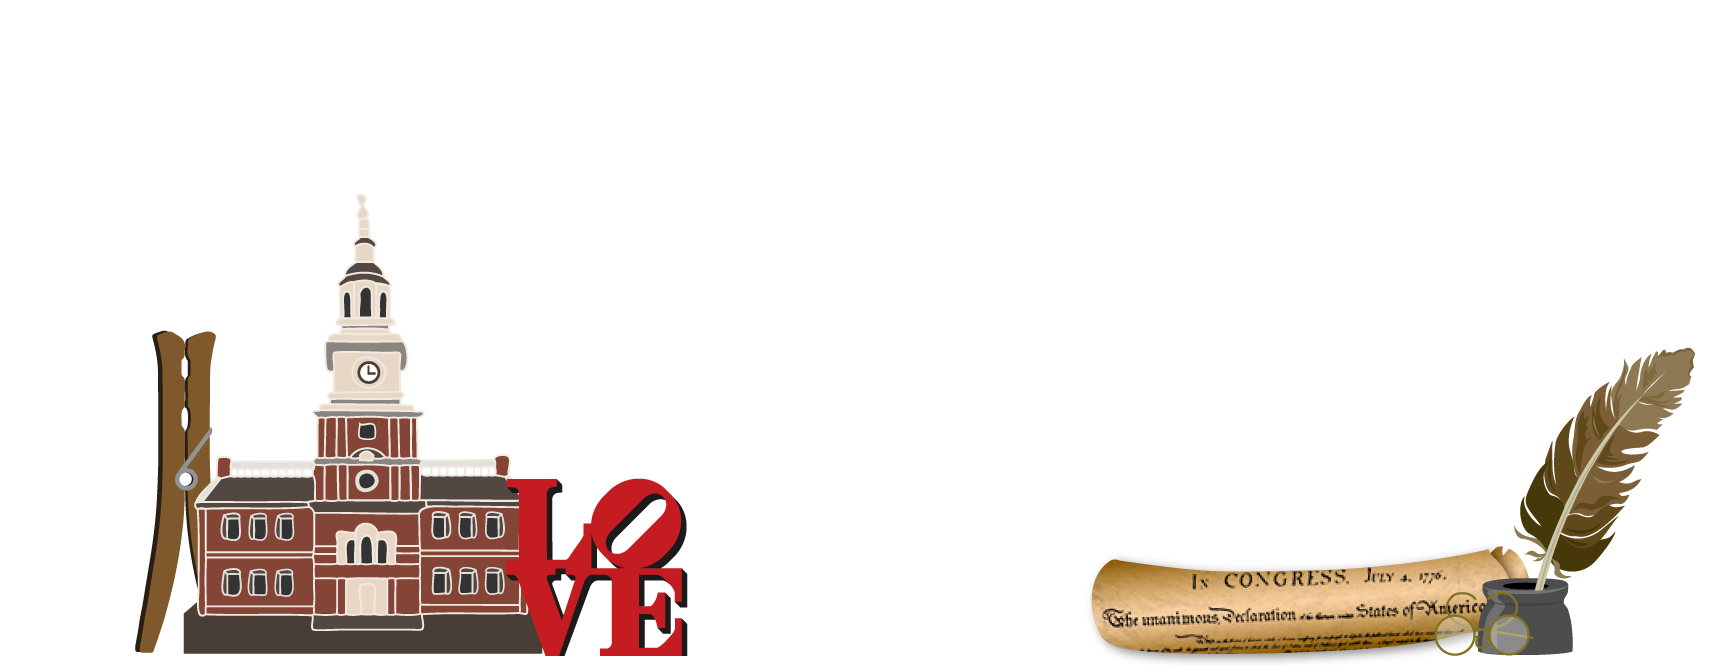
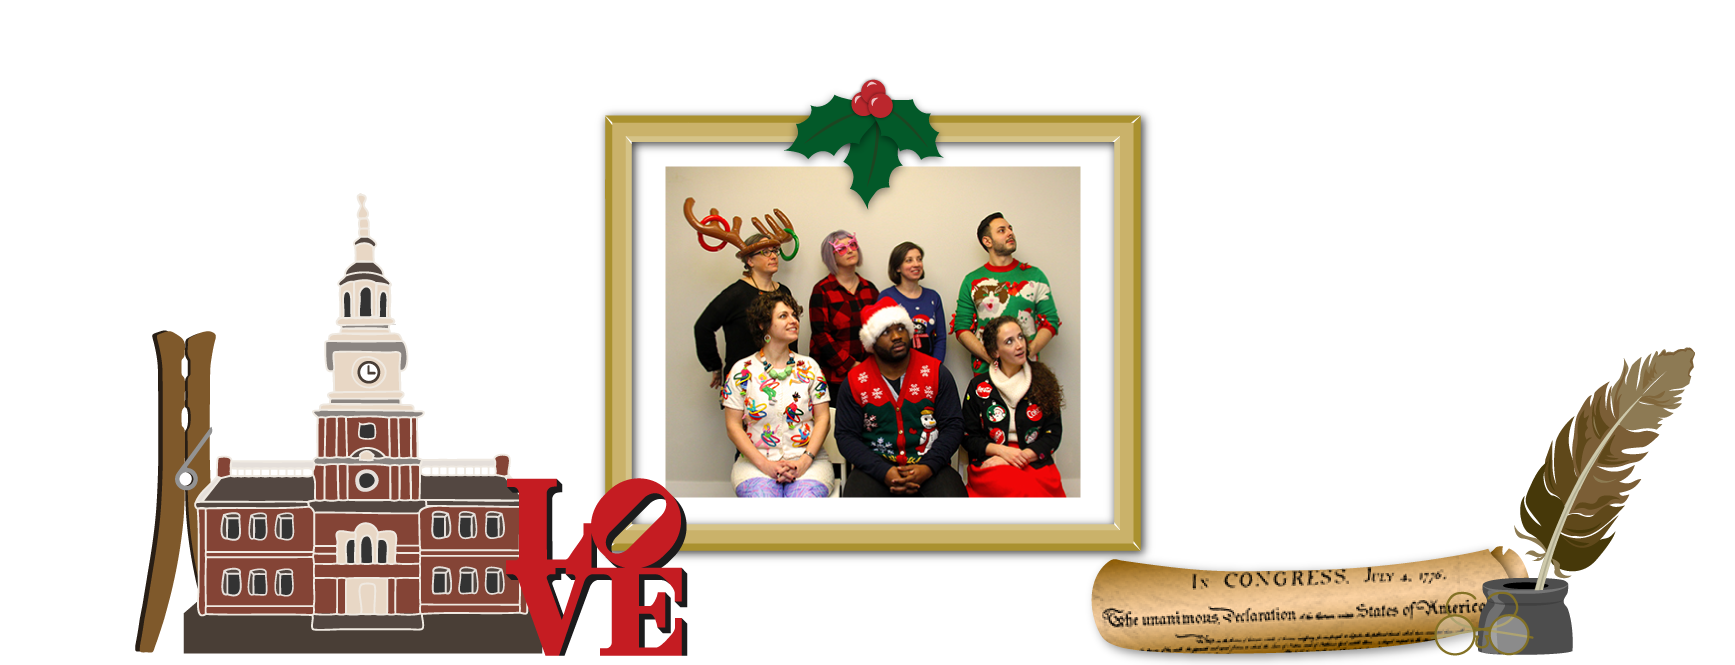
built scene switcher

diff --git a/index.html b/index.html
@@ -18,38 +18,32 @@
 			<div id="background">
 				<img src="assets/bkgr.png" id="scene_background" alt="background image">
 				<div id="chair">
-					<img src="assets/scene_1/sc01_obj-chair.png" id="scene_1_chair" alt="scene 1 chair">
-					<img src="assets/scene_2/sc02_obj-chair.png" id="scene_2_chair" alt="scene 2 chair" class="hidden">
+					<img src="assets/scene_1/sc01_obj-chair.png" class="chair active in" alt="scene 1 chair">
+					<img src="assets/scene_2/sc02_obj-chair.png" class="chair hidden fade" alt="scene 2 chair">
 				</div>
 				<div id="fireplace">
-					<img src="assets/scene_1/sc01_obj-fireplace.png" id="scene_1_fireplace" alt="scene 1 fireplace">
-					<img src="assets/scene_2/sc02_obj-fireplace.png" id="scene_2_fireplace" alt="scene 2 fireplace" class="hidden">
-				</div>
-				<div id="frame">
-					<img src="assets/scene_1/sc01_obj-frame.png" id="scene_1_frame" alt="scene 1 frame">
-					<img src="assets/scene_2/sc02_obj-frame.png" id="scene_2_frame" alt="scene 2 frame" class="hidden">
-
+					<img src="assets/scene_1/sc01_obj-fireplace.png" class="fireplace active in" alt="scene 1 fireplace">
+					<img src="assets/scene_2/sc02_obj-fireplace.png" class="fireplace hidden fade" alt="scene 2 fireplace" class="hidden">
 				</div>
 				<div id="mantel">
-					<img src="assets/scene_1/sc01_obj-mantel.png" id="scene_1_mantel" alt="scene 1 mantel">
-					<img src="assets/scene_2/sc02_obj-mantel.png" id="scene_2_mantel" alt="scene 2 mantel" class="hidden">
-
+					<img src="assets/scene_1/sc01_obj-mantel.png" class="mantel active in" alt="scene 1 mantel">
+					<img src="assets/scene_2/sc02_obj-mantel.png" class="mantel hidden fade" alt="scene 2 mantel">
 				</div>
 				<div id="mantelGarland">
-					<img src="assets/scene_1/sc01_obj-mantelGarland.png" id="scene_1_mantelGarland" alt="scene 1 mantelGarland">
-					<img src="assets/scene_2/sc02_obj-mantelGarland.png" id="scene_2_mantelGarland" alt="scene 2 mantelGarland" class="hidden">
+					<img src="assets/scene_1/sc01_obj-mantelGarland.png"  class="mantelGarland active in" alt="scene 1 mantelGarland">
+					<img src="assets/scene_2/sc02_obj-mantelGarland.png"  class="mantelGarland hidden fade" alt="scene 2 mantelGarland">
 				</div>
 				<div id="pet">
-					<img src="assets/scene_1/sc01_obj-pet.png" id="scene_1_pet" alt="scene 1 pet">
-					<img src="assets/scene_2/sc02_obj-pet.png" id="scene_2_pet" alt="scene 2 pet" class="hidden">
+					<img src="assets/scene_1/sc01_obj-pet.png" class="pet active in" alt="scene 1 pet">
+					<img src="assets/scene_2/sc02_obj-pet.png" class="pet hidden fade" alt="scene 2 pet">
 				</div>
 				<div id="table">
-					<img src="assets/scene_1/sc01_obj-table.png" id="scene_1_table" alt="scene 1 table">
-					<img src="assets/scene_2/sc02_obj-table.png" id="scene_2_table" alt="scene 2 table" class="hidden">
+					<img src="assets/scene_1/sc01_obj-table.png" class="table active in" alt="scene 1 table">
+					<img src="assets/scene_2/sc02_obj-table.png" class="table hidden fade" alt="scene 2 table">
 				</div>
 				<div id="tree">
-					<img src="assets/scene_1/sc01_obj-tree.png" id="scene_1_tree" alt="scene 1 tree">
-					<img src="assets/scene_2/sc02_obj-tree.png" id="scene_2_tree" alt="scene 2 tree" class="hidden">
+					<img src="assets/scene_1/sc01_obj-tree.png" class="tree active in" alt="scene 1 tree">
+					<img src="assets/scene_2/sc02_obj-tree.png" class="tree hidden fade" alt="scene 2 tree">
 				</div>
 			</div>
 		</div>

diff --git a/dist/css/main.css b/dist/css/main.css
@@ -8,6 +8,11 @@
 .in {
   opacity: 1; }
 
+button {
+  background: none;
+  border: none;
+  cursor: pointer; }
+
 * {
   font-family: "museo-sans", Helvetica, Arial, sans-serif; }
 
@@ -24,7 +29,8 @@ body {
   align-items: center;
   width: 100vw;
   height: 100vh;
-  background-color: rgba(0, 0, 0, 0.5); }
+  background-color: rgba(0, 0, 0, 0.5);
+  z-index: 4; }
   #attract .gift-tag-wrapper {
     display: block;
     width: 320px;
@@ -65,70 +71,65 @@ body {
 #scene {
   height: 100vh;
   width: 100vw;
-  overflow: hidden; }
+  overflow: hidden;
+  display: flex;
+  justify-content: center;
+  z-index: -1; }
 
 #background {
   position: relative;
-  width: 1200px;
-  margin: 0px auto; }
+  width: 1400px; }
   #background img {
-    width: 1200px;
+    width: 1400px;
     height: auto; }
 
+#chair, #fireplace, #mantel, #mantelGarland, #pet, #table, #tree {
+  position: absolute; }
+
+#chair, #fireplace, #mantel, #mantelGarland, #pet, #table {
+  z-index: 2; }
+
 #chair {
-  position: absolute;
-  left: 215px;
-  top: 228px; }
+  left: 253px;
+  top: 270px; }
   #chair img {
-    width: 211px; }
+    width: 240px; }
 
 #fireplace {
-  position: absolute;
-  left: 397px;
-  top: 310px; }
+  left: 479px;
+  top: 364px; }
   #fireplace img {
-    width: 315px; }
-
-#frame {
-  position: absolute;
-  left: 362px;
-  top: 35px; }
-  #frame img {
-    width: 461px; }
+    width: 345px; }
 
 #mantel {
-  position: absolute;
   top: 25px;
-  left: 328px; }
+  left: 367px; }
   #mantel img {
-    width: 550px; }
+    width: 654px; }
 
 #mantelGarland {
-  position: absolute;
-  top: 231px;
-  left: 349px; }
+  top: 269px;
+  left: 406px; }
   #mantelGarland img {
-    width: 500px; }
+    width: 589px; }
 
 #pet {
-  position: absolute;
-  top: 485px;
-  left: 299px; }
+  top: 566px;
+  left: 365px; }
   #pet img {
-    width: 575px; }
+    width: 655px; }
 
 #table {
-  position: absolute;
-  top: 247px;
-  left: 690px; }
+  top: 293px;
+  left: 800px; }
   #table img {
-    width: 233px; }
+    width: 266px; }
 
 #tree {
-  position: absolute;
-  top: 0px;
-  left: 0px; }
+  top: 43px;
+  left: 193px;
+  z-index: 1; }
   #tree img {
-    width: 500px; }
+    width: 280px; }
 
 /*# sourceMappingURL=main.css.map */

diff --git a/_sass/components/_scene.scss b/_sass/components/_scene.scss
@@ -2,87 +2,82 @@
 	height: 100vh;
 	width: 100vw;
 	overflow: hidden;
+	display: flex;
+	justify-content: center;
+	z-index: -1;
 }
 
 
 #background {
 	position: relative;
-	width: 1200px;
-	margin: 0px auto;
+	width: 1400px;
 	img {
-	width: 1200px;
+	width: 1400px;
 	height: auto;
 	}
 }
 
-#chair {
+#chair, #fireplace, #mantel, #mantelGarland, #pet, #table, #tree {
 	position: absolute;
-    left: 215px;
-    top: 228px;
+}
+
+#chair, #fireplace, #mantel, #mantelGarland, #pet, #table {
+	z-index: 2;
+}
+
+#chair {
+   	left: 253px;
+    top: 270px;
 	img {
-		width: 211px;
+		width: 240px;
 	}
 }
 
 #fireplace {
-	position: absolute;
-	left: 397px;
-    top: 310px;
+	left: 479px;
+    top: 364px;
     img {
-    	width: 315px;
-    }
-}
-
-#frame {
-	position: absolute;
-	left: 362px;
-    top: 35px;
-    img {
-    	width: 461px;
+    	width: 345px;
     }
 }
 
 #mantel {
-	position: absolute;
 	top: 25px;
-    left: 328px;
+    left: 367px;
 	img {
-		width: 550px;
+		width: 654px;
 	}
 }
 
 #mantelGarland {
-	position: absolute;
-	top: 231px;
-    left: 349px;
+	top: 269px;
+    left: 406px;
 	img {
-		width: 500px;
+		width: 589px;;
 	}
 }
 
 #pet {
-	position: absolute;
-	top: 485px;
-    left: 299px;
+	top: 566px;
+    left: 365px;
 	img {
-		width: 575px;
+		width: 655px;;
 	}
 }
 
 #table {
-	position: absolute;
-	top: 247px;
-    left: 690px;
+	top: 293px;
+    left: 800px;
 	img {
-		width: 233px;
+		width: 266px;
 	}
 }
 
 #tree {
-	position: absolute;
-	top: 0px;
-	left: 0px;
+	top: 43px;
+	left: 193px;
+	z-index: 1;
 	img {
-		width: 500px;
+		width: 280px;
 	}
 }

diff --git a/js/controllers/hotspots.js b/js/controllers/hotspots.js
@@ -5,8 +5,29 @@ Hotspots = (function() {
     
     
     var bindEvents = function() {
+        $(document).on('click tap', '.chair', nextImg);
+        $(document).on('click tap', '.fireplace', nextImg);
+        $(document).on('click tap', '.mantel', nextImg);
+        $(document).on('click tap', '.mantelGarland', nextImg);
+        $(document).on('click tap', '.pet', nextImg);
+        $(document).on('click tap', '.table', nextImg);
+        $(document).on('click tap', '.tree', nextImg);
         
     }
+
+    var nextImg = function() {
+    	if($(this).hasClass('active')) {
+    		$(this).removeClass('active').addClass('fade').addClass('hidden');
+    		if($(this).next().length > 0) {
+    			$(this).next().addClass('active').removeClass('hidden').removeClass('fade').addClass('in');
+    		} else {
+    			$(this).parent().find('img').first().addClass('active').removeClass('hidden').removeClass('fade').addClass('in');
+    		}
+    		
+    	}
+    }
+
+    
 
     return {
         init: init

diff --git a/js/controllers/modal.js b/js/controllers/modal.js
@@ -11,15 +11,16 @@ Modal = (function() {
     }
 
     var showAttract = function() {
-    	$('#attract').removeClass('fade').addClass('in');
+    	$('#attract').removeClass('fade').addClass('in').css('z-index', '3');
 
     }
 
     var showScene = function() {
-    	$('#attract').addClass('fade').removeClass('in');
+    	$('#attract').addClass('fade').removeClass('in').css('z-index', '0');
     }
 
     return {
-        init: init
+        init: init,
+        showAttract: showAttract
     }
 })();

diff --git a/_sass/components/_attract.scss b/_sass/components/_attract.scss
@@ -8,6 +8,7 @@
 	width: 100vw;
 	height: 100vh;
 	background-color: rgba(0,0,0,0.5);
+	z-index: 4;
 
 	.gift-tag-wrapper {
 		display: block;
@@ -15,12 +16,8 @@
     	position: relative;
     	left: -60px; // accounts for ribbon width
 	}
-
 	img {
-		// display: block;
 		width: 100%;
-  //   	position: relative;
-  //   	left: -60px; // accounts for ribbon width
 	}
 
 	#close {

diff --git a/_sass/base/_helpers.scss b/_sass/base/_helpers.scss
@@ -8,3 +8,9 @@
 .in {
     opacity: 1;
 }
+
+button {
+	background: none;
+	border: none;
+	cursor: pointer;
+}
